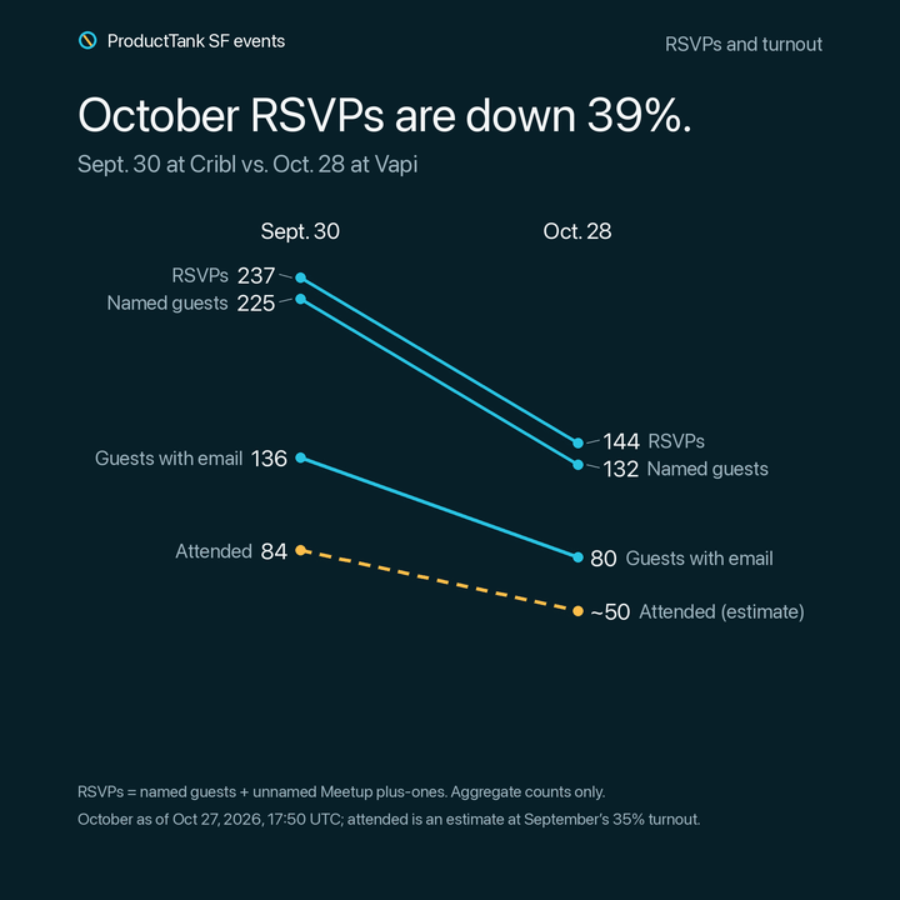
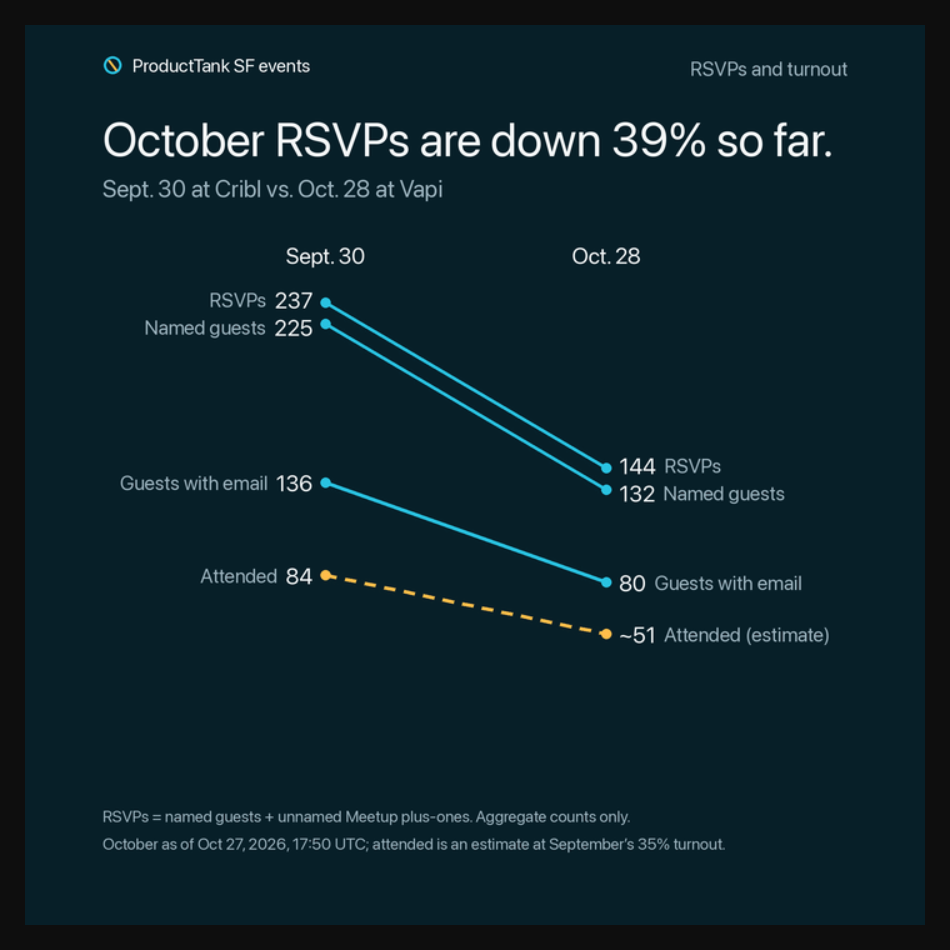
fix(rsvp-slopegraph): correct estimates and clarify running counts (#7)
Keep the turnout ratio unrounded until the head-count estimate, suppress tiny label leaders, and reject invalid aggregate counts with a field-specific error. Cover real-font label separation and refresh the GIF and browser screenshots.

diff --git a/src/rsvp-slopegraph/tests/test_rsvp_slopegraph.py b/src/rsvp-slopegraph/tests/test_rsvp_slopegraph.py
@@ -4,10 +4,14 @@ import tempfile
 import unittest
 from pathlib import Path
 
+from PIL import Image, ImageDraw
+
 PROJECT_ROOT = Path(__file__).resolve().parents[1]
 sys.path.insert(0, str(PROJECT_ROOT))
 
-from src.rsvp_slopegraph import build_stats, load_stats, spread_labels
+from src.rsvp_slopegraph import (
+    build_stats, load_fonts, load_stats, plan_layout, right_name, right_value, spread_labels,
+)
 
 
 def sample_data():
@@ -41,13 +45,29 @@ class SpreadLabelsTest(unittest.TestCase):
         placed = sorted(spread_labels([100, 110, 120, 130], 20, 0, 400))
         self.assertEqual([b - a for a, b in zip(placed, placed[1:])], [20, 20, 20])
 
+    def test_real_font_labels_do_not_overlap(self):
+        fonts = load_fonts()
+        draw = ImageDraw.Draw(Image.new("RGB", (1, 1)))
+        layout = plan_layout(build_stats(sample_data()), fonts, draw)
+        for left in (True, False):
+            boxes = []
+            for item in layout.placed:
+                y = item.left_label_y if left else item.right_label_y
+                value = str(item.stat.september) if left else right_value(item.stat)
+                name = item.stat.name if left else right_name(item.stat)
+                value_box = draw.textbbox((0, y), value, font=fonts.label, anchor="lm")
+                name_box = draw.textbbox((0, y), name, font=fonts.axis, anchor="lm")
+                boxes.append((min(value_box[1], name_box[1]), max(value_box[3], name_box[3])))
+            boxes.sort()
+            for above, below in zip(boxes, boxes[1:]):
+                self.assertLessEqual(above[1], below[0])
+
 
 class StatsTest(unittest.TestCase):
     def test_rsvps_add_plus_ones_and_attendance_uses_september_turnout(self):
         stats = {stat.name: stat for stat in build_stats(sample_data())}
         self.assertEqual((stats["RSVPs"].september, stats["RSVPs"].october), (237, 144))
-        # 84 / 237 rounds to 35%; 144 x 0.35 = 50.4.
-        self.assertEqual(stats["Attended"].october, 50)
+        self.assertEqual(stats["Attended"].october, 51)
         self.assertTrue(stats["Attended"].estimate)
         self.assertFalse(stats["RSVPs"].estimate)
 
@@ -59,6 +79,23 @@ class StatsTest(unittest.TestCase):
             path.write_text(json.dumps(data))
             with self.assertRaisesRegex(ValueError, "october is missing as_of"):
                 load_stats(path)
+
+    def test_invalid_counts_name_the_event_and_field(self):
+        fields = {
+            "september": ("named_guests", "guests_with_email", "unnamed_plus_ones", "attended"),
+            "october": ("named_guests", "guests_with_email", "unnamed_plus_ones"),
+        }
+        with tempfile.TemporaryDirectory() as directory:
+            path = Path(directory) / "stats.json"
+            for event, keys in fields.items():
+                for key in keys:
+                    for value in ("132", None, True, -1, 1.5):
+                        with self.subTest(event=event, key=key, value=value):
+                            data = sample_data()
+                            data[event][key] = value
+                            path.write_text(json.dumps(data))
+                            with self.assertRaisesRegex(ValueError, f"{event}.{key} must be a non-negative whole number"):
+                                load_stats(path)
 
 
 if __name__ == "__main__":

diff --git a/src/rsvp-slopegraph/src/rsvp_slopegraph.py b/src/rsvp-slopegraph/src/rsvp_slopegraph.py
@@ -76,8 +76,8 @@ def rsvps(event: dict[str, Any]) -> int:
 
 
 def turnout_rate(september: dict[str, Any]) -> float:
-    """September turnout, rounded to whole percent so the footnote and estimate agree."""
-    return round(september["attended"] / rsvps(september) * 100) / 100
+    """September turnout as an unrounded ratio."""
+    return september["attended"] / rsvps(september)
 
 
 def load_stats(path: Path) -> dict[str, Any]:
@@ -90,6 +90,11 @@ def load_stats(path: Path) -> dict[str, Any]:
         missing = [key for key in keys if key not in data.get(event, {})]
         if missing:
             raise ValueError(f"{path}: {event} is missing {', '.join(missing)}")
+        for key in ("named_guests", "guests_with_email", "unnamed_plus_ones", "attended"):
+            if key in keys:
+                value = data[event][key]
+                if type(value) is not int or value < 0:
+                    raise ValueError(f"{path}: {event}.{key} must be a non-negative whole number")
     return data
 
 
@@ -177,7 +182,7 @@ def right_name(stat: Stat) -> str:
 def headline(stats: Sequence[Stat]) -> str:
     total = stats[0]
     change = round((total.october - total.september) / total.september * 100)
-    return f"October RSVPs are {'down' if change < 0 else 'up'} {abs(change)}%."
+    return f"October RSVPs are {'down' if change < 0 else 'up'} {abs(change)}% so far."
 
 
 def plan_layout(stats: Sequence[Stat], fonts: Fonts, draw: ImageDraw.ImageDraw) -> Layout:
@@ -226,7 +231,7 @@ def draw_label(
     scale = RENDER_SCALE
     value_width = draw.textlength(value, font=fonts.label)
     space = draw.textlength("  ", font=fonts.axis)
-    nudged = abs(label_y - line_y) > scale
+    nudged = abs(label_y - line_y) > LABEL_GAP * scale / 3
     sign = -1 if left else 1
     edge = anchor_x + sign * (20 if nudged else 10) * scale
     if nudged:

diff --git a/src/rsvp-slopegraph/README.md b/src/rsvp-slopegraph/README.md
@@ -15,7 +15,7 @@ All numbers live in [`docs/reports/rsvp-slopegraph/stats.json`](../../docs/repor
    ./src/rsvp-slopegraph/src/rsvp_slopegraph.py
    ```
 
-The script rewrites `slopegraph.gif` and `report.md`. It computes RSVPs as named guests plus unnamed Meetup plus-ones. It estimates October attendance by applying September's turnout, rounded to a whole percent, to October RSVPs.
+The script rewrites `slopegraph.gif` and `report.md`. It computes RSVPs as named guests plus unnamed Meetup plus-ones. It estimates October attendance from September's unrounded turnout ratio, then rounds the estimated head count; only the displayed turnout percentage is rounded to a whole percent. The headline marks October RSVPs as a running count with “so far”. Count fields must be non-negative whole numbers.
 
 ## Tests
 

diff --git a/docs/reports/rsvp-slopegraph/report.md b/docs/reports/rsvp-slopegraph/report.md
@@ -1,6 +1,6 @@
 # ProductTank SF: September vs. October RSVPs
 
-> **October RSVPs are down 39%.** Sept. 30 at Cribl drew 237 RSVPs; Oct. 28 at Vapi has 144 so far.
+> **October RSVPs are down 39% so far.** Sept. 30 at Cribl drew 237 RSVPs; Oct. 28 at Vapi has 144 so far.
 
 ![Animated slopegraph comparing September and October event stats](slopegraph.gif)
 
@@ -9,7 +9,7 @@
 | RSVPs | 237 | 144 |
 | Named guests | 225 | 132 |
 | Guests with email | 136 | 80 |
-| Attended | 84 | ~50 (estimate) |
+| Attended | 84 | ~51 (estimate) |
 
 - RSVPs are named guests plus unnamed Meetup plus-ones.
 - September attended is the door head count.
